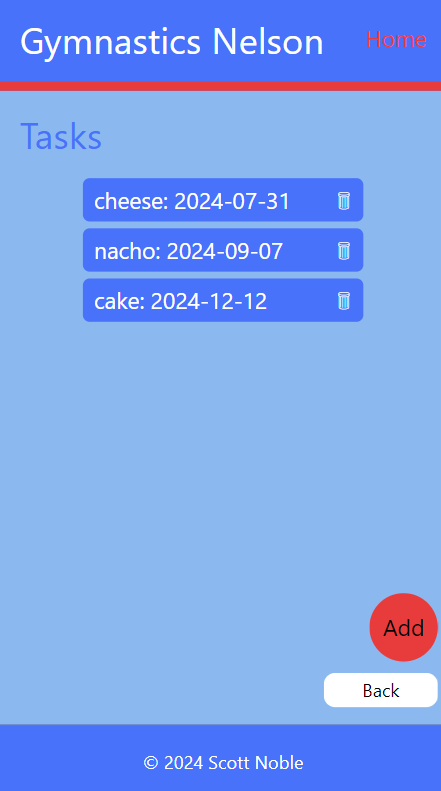
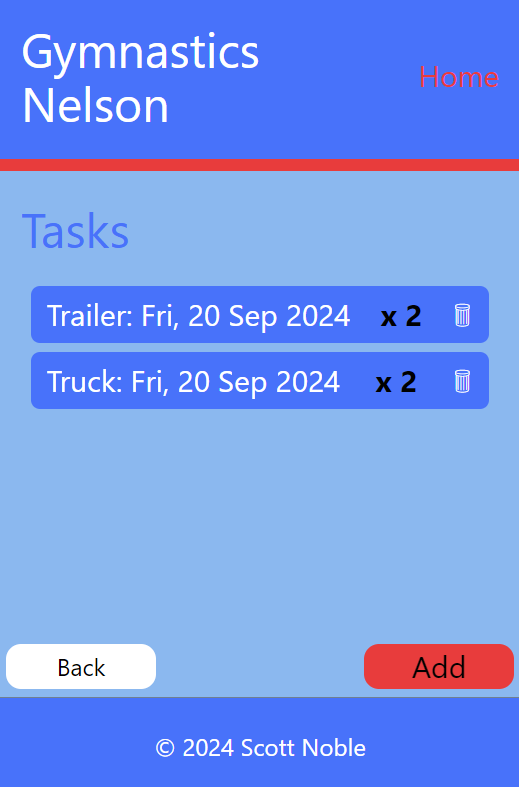
finished off the design and development log

diff --git a/site/css/styles.css b/site/css/styles.css
@@ -1,37 +1,4 @@
 
-/* @MEDIA ****************************************************/
-@media (min-width: 1200px) {
-    #people-list li {
-        font-size: 1.1rem;
-    }
-}
-
-@media (max-width: 900px) {
-    #people-list li {
-        font-size: 1rem;
-    }
-}
-
-@media (max-width: 600px) {
-    #people-list li {
-        font-size: 0.9rem;
-    }
-}
-
-@media (max-width: 400px) {
-    #people-list li {
-        font-size: 0.8rem;
-    }
-}
-
-
-
-@media (max-width: 320px) {
-    #people-list li {
-        font-size: 0.7rem;
-    }
-}
-
 
 * {
     box-sizing: border-box;

diff --git a/docs/Design.md b/docs/Design.md
@@ -25,11 +25,9 @@ The clients want a way to see the list of tasks and when it needs to be done. Th
 
 The proposed solution is having a website for Gymnastics Nelson that allows gymnastics coaches, parents, and gymnasts to view a list of tasks and sign up for them.
 
-The website will also allow the coaches to modify, add, or delete tasks.
+The website will also allow the coaches to add, or delete tasks.
 
-Clients should be able to sign up for a task and see what tasks they have signed up for.
-
-The coaches should be able to add delete, and modify tasks.
+Clients should be able to sign up for a task, and the admin can see who has signed up for each task.
 
 
 -------------------------------------------------
@@ -76,15 +74,8 @@ The social implications of a digital outcome involve how it affects users, the w
 
 Social is relevant to my website because I don't want to cause offence to anyone or stigmatise or stereotype particular social groups.
 
-When designing my website I will avoid using racist or sexist language or images, as well as using gender neutral language where possible. I will also avoid promoting activities that have a negative impact on people / society (e.g. gambling, drinking, drugs, etc.)
+When designing my website I will avoid using racist or sexist language or images, as well as using gender neutral language where possible. I will also avoid promoting activities that have a negative impact on people / society (e.g. gambling, drinking, drugs, etc.). I will also make it suitable for all ages.
 
-### IMPLICATION NAME HERE
-
-Replace this text with a clear explanation of what the implication means.
-
-Replace this text with an explanation of why the implication is relevant to this particular project.
-
-Replace this text with an explanation of what you will need to consider moving forward and how the project will be impacted by this implication.
 
 
 -------------------------------------------------
@@ -110,7 +101,7 @@ Replace this text with an explanation of what you will need to consider moving f
 My final database structure is very similar to my design, however I have added an amount column into tasks table.
 
 ### User Interface Design
-
+The category and task list items are closer together than the design, this is because if there is a lot of tasks the user will have to scroll longer since they are seperated.
 ![Home page UI](images/UI-index.png)
 
 ![Form UI](images/UI-form.png)
@@ -124,20 +115,101 @@ My final database structure is very similar to my design, however I have added a
 
 ### Meeting the Needs of the Users
 
-Replace this text with a brief evaluation of how well you met the needs of your users. Look at what you initially wrote about who they are, what specific needs they have, etc. and discuss how well the system meets those needs.
+
+I have met the needs of the users by ensuring they can sign up for a task on a phone or computer, and making sure the webiste doesn't need a lot of experience using techology by having a title at the top of each screen showing what is being displayed.
+
+
+
 
 ### Meeting the System Requirements
 
-Replace this text with a brief evaluation of how well you met the requirements that you defined at the start of the project, etc. Look back at the list of features / functionality you initially set and discuss how well your system has implemented each one.
+I met the system requirements by having a list of tasks so the user can sign up for a task, as well as the task amount decreasing by 1 after every sign up, I have included an add and delete button so the admin can add and delete a task, as well as the admin being able to click on a task to see who has signed up for each task.
 
-### Review of IMPLICATION NAME HERE
 
-Replace this text with brief notes showing how the implication was addressed in the final outcome. Accompany the notes with screenshots / other media to illustrate specific features.
 
-### Review of IMPLICATION NAME HERE
+### Review of usability
 
-Replace this text with brief notes showing how the implication was addressed in the final outcome. Accompany the notes with screenshots / other media to illustrate specific features.
+I addressed the usability implication by using Neilsen's heuristics as stated below.
 
-### Review of IMPLICATION NAME HERE
+I showed visibility of system status by displaying a "thank you for signing up" message after the user signs up for a task
+![Visibility of system status](images/visibility-system-status.png)
 
-Replace this text with brief notes showing how the implication was addressed in the final outcome. Accompany the notes with screenshots / other media to illustrate specific features.
+I showed match between system and the real world by using a rubbish bin to delete a task.
+![Match between system and the real world](images/match-system-real-world.png)
+
+I showed user control and freedom by asking the user if they are sure they want to delete a task, and having an option to cancel.
+![User control and freedom](images/user-control-freedom.png)
+
+I showed consistency and standards by having the back button always in the same location. However in the form I chose not to have it in the same location but instead beneath the submit button. The reason for this was because I felt it was more user friendly to have the submit and back button the same section of the form.
+
+![Consistancy and standards](images/consistancy-standards.png)
+
+![Consistancy and standards form](images/consistancy-standards-form.png)
+
+
+I showed error prevention by making all of the inputs in the form required, and ensuring that the the email the user has entered is valid. This stops the user from making an error when signing up for a task.
+
+![Error prevention required](images/error-prevention-required.png)
+
+![Error prevention email](images/error-prevention-email.png)
+
+I showed recognition rather than recall by having a drop down menu when the admin is selecting a category for the task. This means that the admin does not need to remember the name of every category.
+
+![Recognition rather than recall](images/recognition-recall.png)
+
+
+I showed flexibility and efficiency of use by having clear step-by-step actions for the user to sign up for tasks. I did this by having a list of categories that the user will select from which will take them to a list of tasks that they can sign up for.
+
+![Flexibility and efficiency of use home page](images/flexibility-efficiency-home.png)
+
+![Flexibility and efficiency of use tasks](images/flexibility-efficiency-task.png)
+
+
+I demonstrated aesthetic and minimalist design by keeping my design as simple as possible so that the user would not overwhelmed by too much information. I did this by only showing necessary information on each page. I concentrated on keeping the design looking aesthetically pleasing so that the user did not get overwhelmed by the colours and/ or design of the website.
+
+![Aesthetic and minimalist design](images/aesthetic-minimalist-design.png)
+
+I showed the heuristic help users recognize, diagnose, and recover from errors by having a message that shows up if they have already signed up for a task. I made this message red so that the user will easily see it and know why the message was displayed. 
+
+![Helps users recognize, diagnose, and recover from errors](images/help-recover-errors.png)
+
+
+I did not feel that the heuristic help and documentation was needed as the website is simple to use and the users shouldn't need any help when using the webite.
+
+
+
+
+
+
+### Review of functionality
+
+I adressed the funcionality implication by making sure the website does everything it is supposed to for example, the user signing up for a task, the task amount decreasing by 1 after every sign up, the admin being able to add and delete a task, as well as the admin being able to see who has signed up for each task. I have ensured that there are no bugs in the website and does not crash.
+
+
+
+### Review of aesthetic
+
+
+
+I used the implication aesthetic by using fonts and colours that work well together and pleased the user. The font I used was sans serif which uses very simple letter formation which makes it easier to read. The colours I used were red, white, and varying shades of blue. These colours matched the Gymnastics Nelson logo. I chose to use white text on the darker blue background becausse it stands out is easy to read.
+
+![Aesthetic implication](images/aesthetic-implication.png)
+
+
+
+### Review of end-user
+
+I addressed the end-user implication by finding out who my end-users are and by using language that could be easily understood by the end-user. For this website for Gymnastics Nelson my end-users are the parents, grandparents or adult family members of gymnasts. I also made sure that this website could be accessible and worked well on all devices that my end-users will be using. Even thought the main device my end-ussers will be using are phones, I made it work well phones, laptops, and ipads/tablets.
+
+![End-user laptop](images/end-user-laptop.png)
+![End-user phone](images/end-user-phone.png)
+![End-user ipad](images/end-user-ipad.png)
+
+
+
+
+### Review of Social
+
+
+
+I addressed the social implication by not using any rasist or sexist language. The language that I choose to use was basic such as, admin login, add, back, submit. This also means that it is suitable for all ages. On my website there was opportunity to use gender nuetral language. I also did not promote anything that will have a negative impact on society such as gambling, drinking, and drugs. 

diff --git a/docs/Development.md b/docs/Development.md
@@ -108,7 +108,7 @@ I responded to my clients feedback by putting a thin strip of red under the titl
 
 # 27/06/2024
 
-I talked to my client before I started just to see if they had had any thought of any improvements that can be made to the website before I start the first draft and they said
+I talked to my client before I started just to see if they had thought of any improvements that can be made to the website before I start the first draft and they said
 >I think it will be a good idea to add a home button so the user wont have to click back multiple times to get back to the home page.
 
 I finished the home page and task page and added a home button to lead back to the home page
@@ -119,33 +119,35 @@ I finished the home page and task page and added a home button to lead back to t
 
 
 
-#
+# 04/07/2024
 
 I finished the task booking form so the user can select and sign up for a task.
 
 ![user details form](images/user-details-form.png)
 
 
-#
+# 22/07/2024
 
 I added the option for the admin to login using a username and password.
 ![admin login button](images/category-listv2.png)
 ![admin login](images/admin-login.png)
 
 
-#
+# 25/07/2024
 
 Today I finished the admin category and task list, the logout button, and the list of the people who have booked each task along with their contact information.
 ![Admin category list](images/admin-category-list.png)
 ![Admin task list](images/admin-task-list.png)
 ![User details](images/user-details.png)
 
-#
+# 30/07/2024
 
 Today I added the options for the admin to delete a task from the database and add a task to the database.
 ![alt text](images/delete-task.png)
 
 ![add task](images/add-task.png)
+
+# 05/08/2024
 
 After adding the add task form I realised that it would be annoying for the admin to type out the category every time.
 I solved this by having a dropdown menu with all of the existing tasks, and also having a new option which allows the admin to manually type a new category.
@@ -180,8 +182,7 @@ I listened to my client and added a limit to how many tasks can be booked
 
 I also needed to add an amount column to the database
 
-HTML CHECKER
-This means I also had to change the add task form so the admin can set an amont available for each task
+This means I also had to change the add task form so the admin can set an amount available for each task
 
 ![not showing if amount = 0](images/amount=0-database.png)
 
@@ -191,8 +192,8 @@ I showed my client how I had add a limited amount of tasks and how it didn't dis
 They were very pleased and said
 >This looks really good and functions nicely, now all thats needed is the colouring.
 
-#
-Today I added the css for all of the pages in my website
+# 19/08/2024
+Today I finished the css for all of the pages in my website with the suggested colours by my client.
 
 ![css home page](images/css-home-page.png)
 
@@ -208,11 +209,12 @@ Today I added the css for all of the pages in my website
 
 ![css admin task list](images/css-admin-task-list.png)
 
+
 ![css new task](images/css-new-task-1.png)
 
 ![css new task](images/css-new-task-2.png)
 
-#
+# 22/08/2024
 
 Today I validated all of my code
 
@@ -240,13 +242,14 @@ Today I validated all of my code
 
 ![index admin code validation after](images/code-validation-after.png)
 
+I did not have any errors on this page
 ![admin task list code validation after](images/code-validation-after.png)
 
 I did not have any errors on this page
 
 ![admin people list code validation after](images/code-validation-after.png)
 
-I did not have any errors on this page
+
 
 ![add task form code validation before](images/code-validation-add-task-form.png)
 
@@ -263,6 +266,10 @@ https://mywaimeaschool-my.sharepoint.com/:v:/g/personal/snoble_waimea_school_nz/
 
 I realised I forgot to show the admin login details in the database, and what happens if they input the wrong details so I included that in the video above.
 
-need dates
-
 code commenting people list needed
+
+# 25/08/2024
+
+I showed the final website to my client and they said
+>The Gynastics Nelson Club colours of red white and blue were represented well in the website with just the right amount of each colour used. The website is easy to use and easy for the adminstrator to set up various tasks when needed. The website was efficient at gathering the contact details of each volunteer and was clear when the tasks allocation had been used up. The website was straight forward for users to sign up for a task. I appreciated that the website adapted to differing screen sizes and devices.
+
